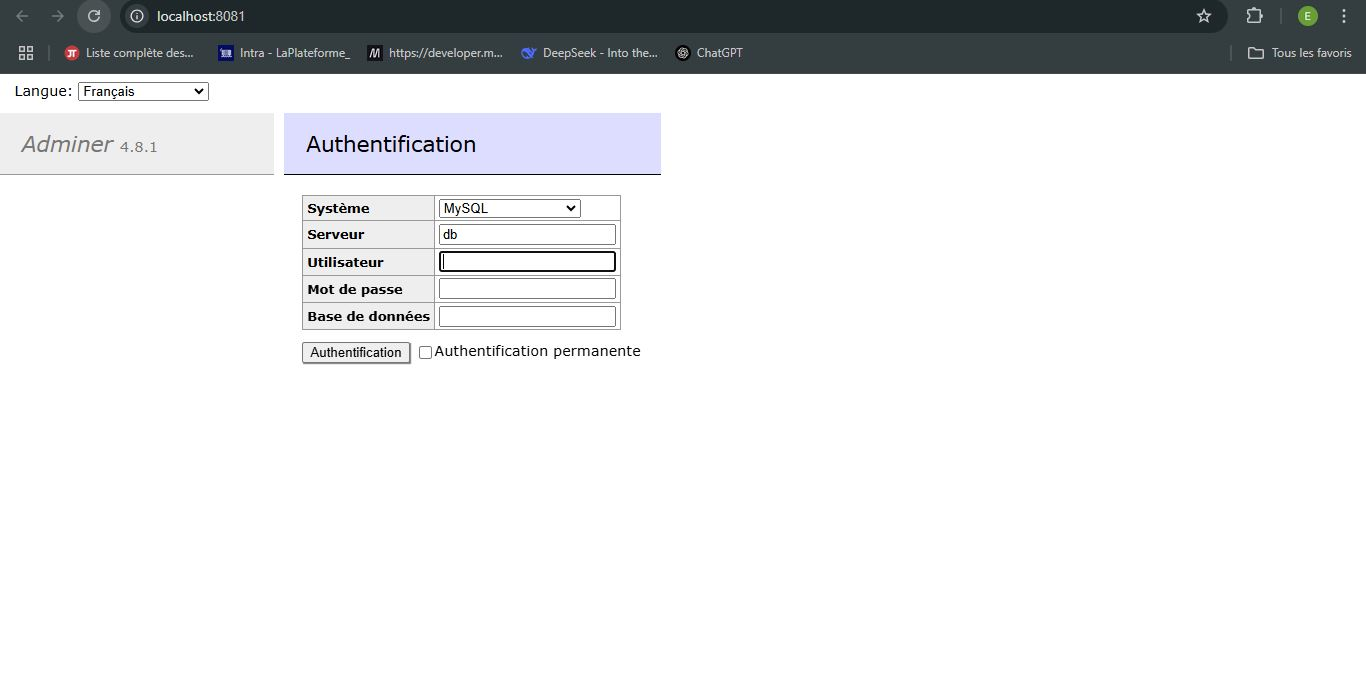
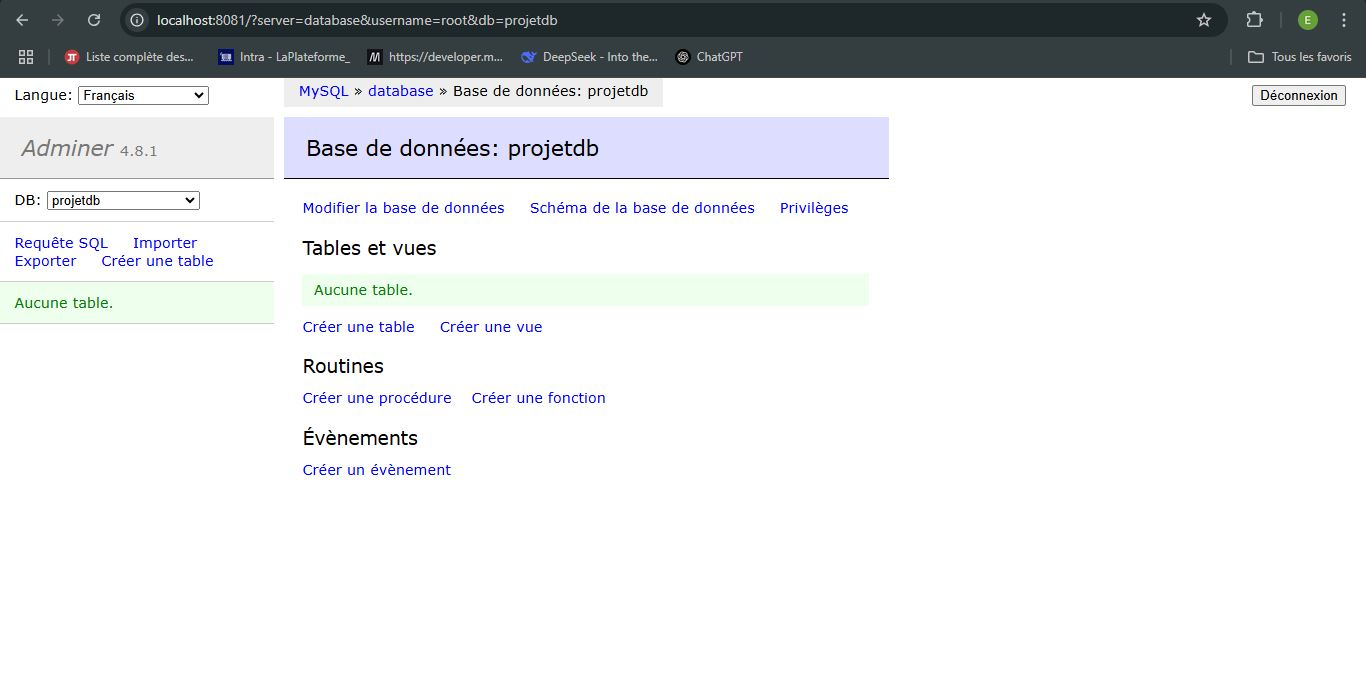
feat(job06): Configuration de l'application multi-conteneurs
- Configuration des services :
  * MySQL avec port modifié (3307)
  * Backend Node.js (express + mysql2)
  * Frontend Nginx
  * Adminer pour gestion BDD
- Mise en place des fichiers :
  * docker-compose.yml avec réseau et volumes
  * Configuration backend (Dockerfile, server.js, package.json)
  * Configuration frontend (index.html)
  * Configuration nginx (nginx.conf)
- Documentation :
  * Ajout des captures d'écran
  * Mise à jour du README avec les étapes
  * Tests de connexion entre services

diff --git a/docker/Jour04/job06/backend/server.js b/docker/Jour04/job06/backend/server.js
@@ -1,31 +1,57 @@
 const express = require('express');
 const mysql = require('mysql2');
+// Configuration de la base de données
+const dbConfig = {
+host: process.env.DB_HOST || 'mysql_container',
+user: process.env.DB_USER || 'root',
+password: process.env.DB_PASSWORD || 'root',
+database: process.env.DB_NAME || 'projetdb',
+};
+
+let connection;
+// Fonction pour établir une connexion à la base de données
+function connectToDatabase() {
+connection = mysql.createConnection(dbConfig);
+connection.connect((err) => {
+if (err) {
+console.error('Error connecting to database. Retrying in 5 seconds...', err);
+setTimeout(connectToDatabase, 5000); // Réessayer après 5 secondes
+} else {
+console.log('Connected to database');
+}
+});
+connection.on('error', (err) => {
+console.error('Database error', err);
+if (err.code === 'PROTOCOL_CONNECTION_LOST') {
+console.log('Reconnecting to database...');
+connectToDatabase(); // Reconnexion automatique
+} else {
+
+throw err;
+}
+});
+}
+// Initialisation de la connexion à la base de données
+connectToDatabase();
+// Initialisation de l'application Express
 const app = express();
-
-const connection = mysql.createConnection({
-    host: 'database',
-    user: 'root',
-    password: 'root',
-    database: 'projetdb'
-});
-
+// Route pour la racine
 app.get('/', (req, res) => {
-    res.json({ message: 'Bienvenue sur l\'API!' });
+res.send('Bienvenue sur l\'API du backend de votre projet Docker !');
 });
-
+// Route de test pour vérifier le statut de l'API
 app.get('/api/status', (req, res) => {
-    connection.query('SELECT NOW() as now', (error, results) => {
-        if (error) {
-            res.status(500).json({ error: 'Erreur de connexion à la base de données' });
-            return;
-        }
-        res.json({ 
-            status: 'OK',
-            time: results[0].now
-        });
-    });
+connection.query('SELECT NOW() AS currentTime', (err, results) => {
+if (err) {
+console.error('Error executing query:', err);
+res.status(500).send('Database query failed');
+} else {
+res.json({ status: 'success', currentTime: results[0].currentTime });
+}
 });
-
-app.listen(3000, () => {
-    console.log('Backend démarré sur le port 3000');
-}); 
+});
+// Démarrage du serveur
+const PORT = 3000;
+app.listen(PORT, () => {
+console.log(`Backend running on port ${PORT}`);
+});

diff --git a/docker/Jour04/job06/frontend/index.html b/docker/Jour04/job06/frontend/index.html
@@ -1,42 +1,32 @@
 <!DOCTYPE html>
-<html>
+<html lang="en">
+
 <head>
-    <title>Status API</title>
-    <style>
-        body {
-            font-family: Arial, sans-serif;
-            margin: 40px;
-        }
-        .status {
-            padding: 20px;
-            border: 1px solid #ddd;
-            border-radius: 5px;
-            margin-top: 20px;
-        }
-    </style>
+    <meta charset="UTF-8">
+    <meta name="viewport" content="width=device-width, initial-scale=1.0">
+    <title>Frontend</title>
 </head>
+
 <body>
-    <h1>Status de l'API</h1>
-    <div class="status" id="status">Chargement...</div>
-
+    <h1>Bienvenue sur le front de votre projet multi-conteneurs Docker</h1>
+    <p>API status : <span id="status"></span></p>
     <script>
-        function checkStatus() {
-            fetch('http://localhost:3000/api/status')
-                .then(response => response.json())
-                .then(data => {
-                    document.getElementById('status').innerHTML = `
-                        Status: ${data.status}<br>
-                        Heure du serveur: ${data.time}
-                    `;
-                })
-                .catch(error => {
-                    document.getElementById('status').innerHTML = 'Erreur de connexion à l\'API';
-                });
-        }
-
-        // Vérifier le status toutes les 5 secondes
-        checkStatus();
-        setInterval(checkStatus, 5000);
+        // Vérifie l'état de l'API via Nginx (port 8080)
+        fetch('http://localhost:8080/api/status')
+            .then(response => {
+                if (!response.ok) {
+                    throw new Error('API inaccessible');
+                }
+                return response.json();
+            })
+            .then(data => {
+                document.getElementById('status').textContent = `En ligne : ${data.currentTime}`;
+            })
+            .catch(error => {
+                console.error(error);
+                document.getElementById('status').textContent = 'API inaccessible';
+            });
     </script>
 </body>
-</html> 
+
+</html>
